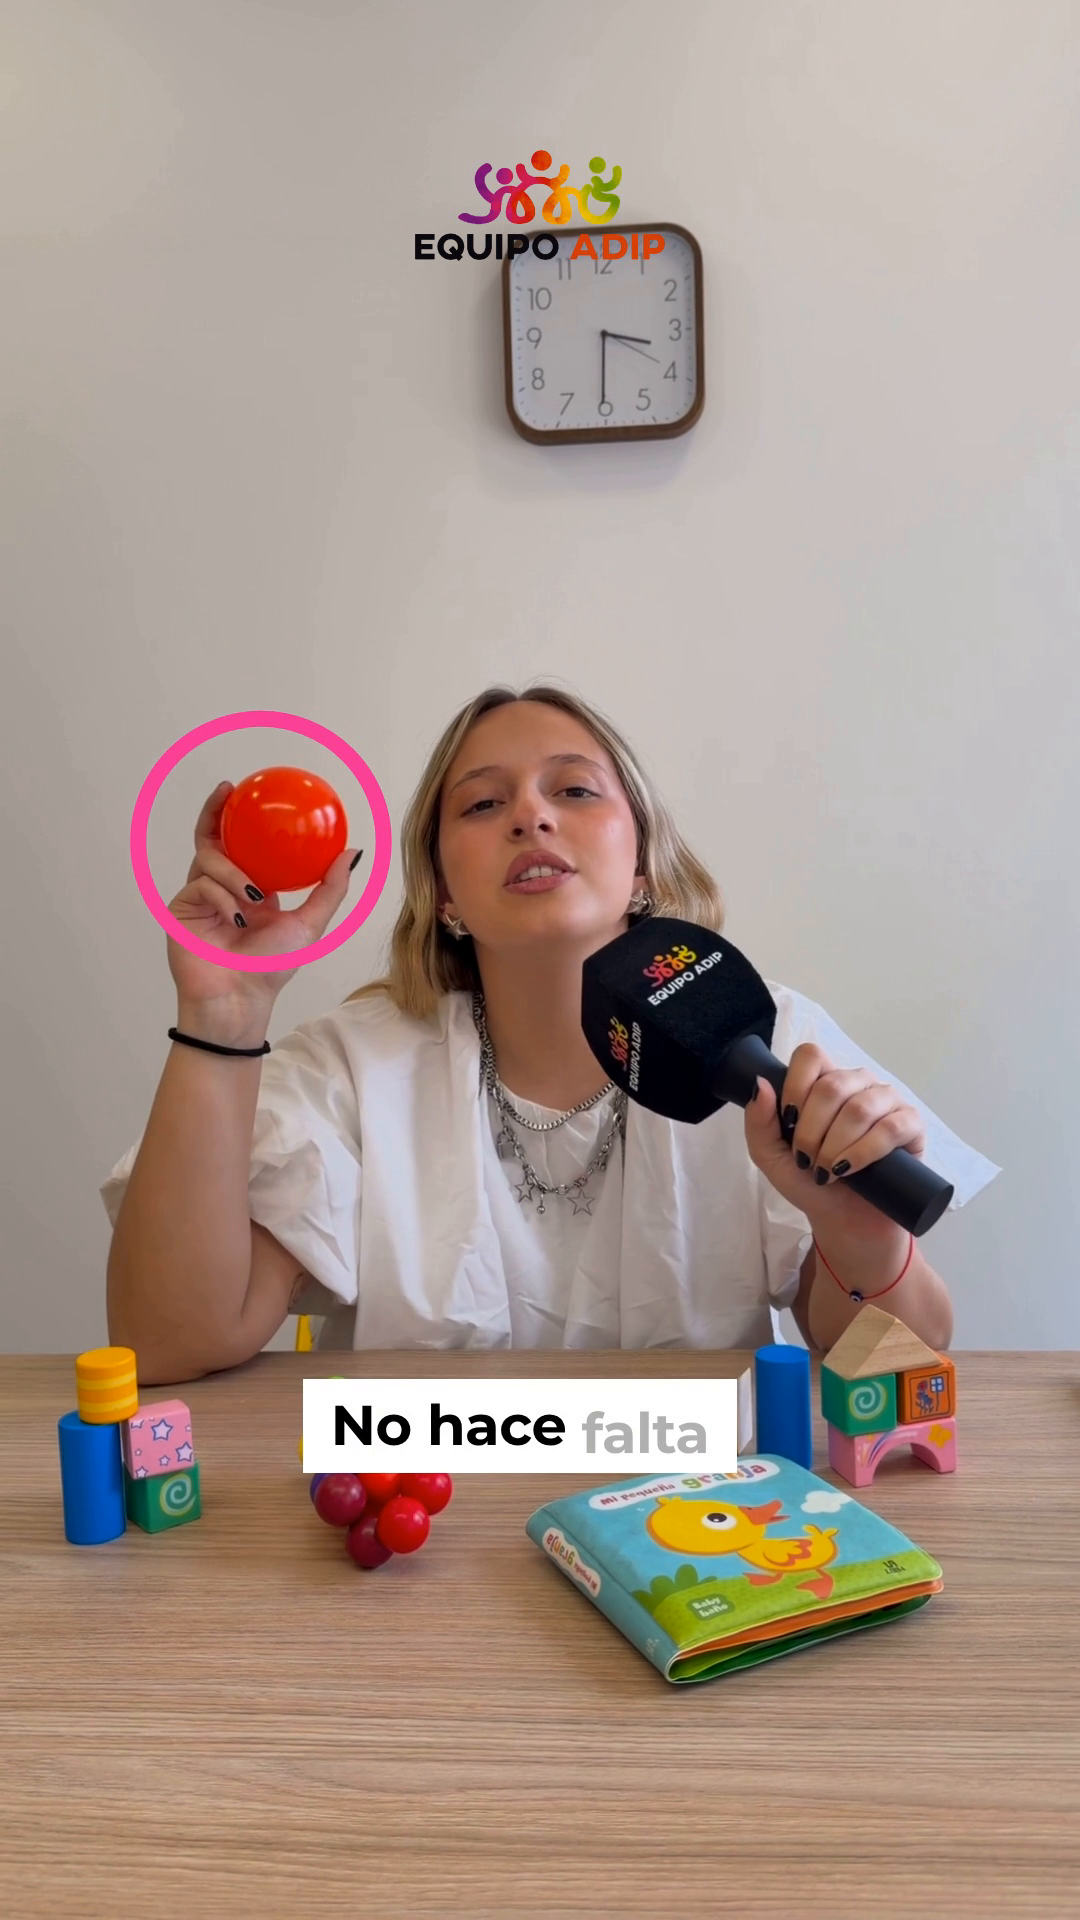
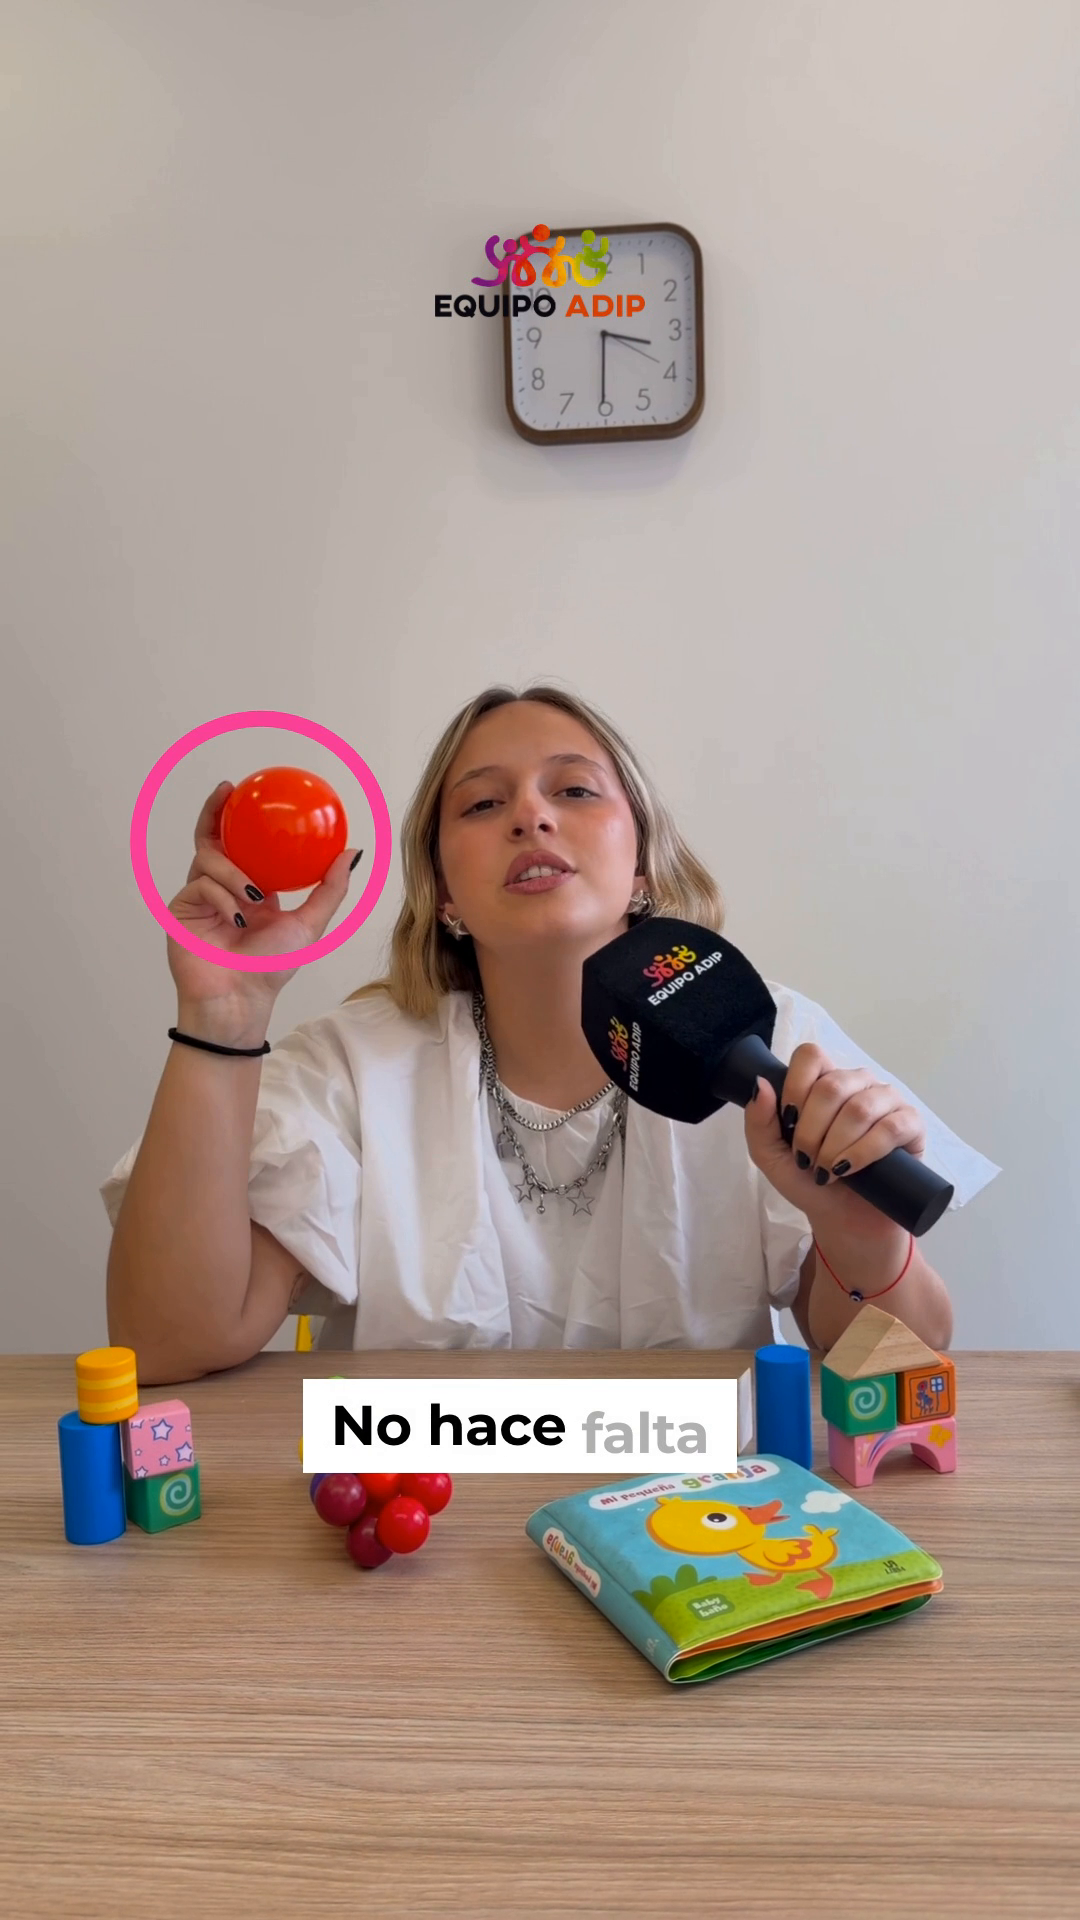
Reel Estimulación: todo dentro de la zona segura de Instagram + auditoría por cuadro
Logo, contador, gancho, HABLAR y EN FAMILIA reubicados o achicados;
tools/estim_safe.py mide cada cuadro de una pasada solo-gráficos.

Claude-Session: https://claude.ai/code/session_01M2LxgeZBKNGVK1wpzDWiMF

Changed region(s): [[0.3667, 0.0625, 0.6111, 0.1875]]

diff --git a/adip-reel/src/estim/Estim.tsx b/adip-reel/src/estim/Estim.tsx
@@ -1,5 +1,5 @@
 import React from 'react';
-import {AbsoluteFill, Easing, Img, OffthreadVideo, Sequence, staticFile, useCurrentFrame, useVideoConfig} from 'remotion';
+import {AbsoluteFill, Easing, Img, OffthreadVideo, Sequence, getInputProps, staticFile, useCurrentFrame, useVideoConfig} from 'remotion';
 import {clamp, easeIO, easeIn, easeOut, lerp, prog} from '../ui';
 import {
   ARC_IN,
@@ -33,6 +33,9 @@ import {
 
 // Estimulación temprana = tinte fucsia + acentos fucsia. No other colours exist in this piece.
 export const P = {pink: '#ED2995', tint: '#FBD4EA', ink: '#000000', white: '#FFFFFF', gray: '#EFEFEF'};
+/** safe-zone audit pass (--props='{"safe":true}'): only type and key graphics on flat green, no footage or decoration */
+const SAFE = Boolean((getInputProps() as {safe?: boolean}).safe);
+const GREEN = '#00FF00';
 export const FONT = "'Montserrat', sans-serif";
 export const TRAZO = 'M10 96 C 70 98, 120 92, 156 74 C 196 54, 204 16, 178 12 C 150 8, 146 54, 182 76 C 220 98, 300 98, 390 92';
 
@@ -230,17 +233,17 @@ const CounterPlate: React.FC<{t: number}> = ({t}) => {
   const cp = prog(t, t0 + 0.08, 0.95, Easing.out(Easing.exp));
   const done = t >= t0 + 0.08 + 0.95;
   const val = done ? 1000000 : Math.min(999999, 1000000 * cp);
-  const bump = 1 + 0.07 * Math.sin(prog(t, t0 + 1.03, 0.35, easeOut) * Math.PI);
+  const bump = 1 + 0.04 * Math.sin(prog(t, t0 + 1.03, 0.35, easeOut) * Math.PI);
   const head = prog(t, t0 + 0.02, 0.55, back);
   const sub = prog(t, t0 + 0.45, 0.4, easeOut);
   return (
     <>
-      <CircleCover t={t} t0={t0 - 0.27} x={540} y={900} />
+      {!SAFE && <CircleCover t={t} t0={t0 - 0.27} x={540} y={900} />}
       {t >= t0 - 0.02 && (
         <>
           {/* la cabeza: big fuchsia circle coming in from the top-right edge */}
-          <div style={{position: 'absolute', left: 770, top: 40, width: 640, height: 640, borderRadius: '50%', background: P.pink, transform: `scale(${head})`, transformOrigin: '80% 20%'}} />
-          <Net t={t} t0={t0 + 0.1} nodes={PLATE_NODES} edges={PLATE_EDGES} node={P.white} step={0.085} />
+          <div style={{position: 'absolute', left: 770, top: 40, width: 640, height: 640, borderRadius: '50%', background: P.pink, display: SAFE ? 'none' : undefined, transform: `scale(${head})`, transformOrigin: '80% 20%'}} />
+          <Net t={SAFE ? -1 : t} t0={t0 + 0.1} nodes={PLATE_NODES} edges={PLATE_EDGES} node={P.white} step={0.085} />
           <div
             style={{
               position: 'absolute',
@@ -250,7 +253,7 @@ const CounterPlate: React.FC<{t: number}> = ({t}) => {
               textAlign: 'center',
               fontFamily: FONT,
               fontWeight: 900,
-              fontSize: 170,
+              fontSize: 146,
               lineHeight: 1,
               letterSpacing: '-0.035em',
               fontVariantNumeric: 'tabular-nums',
@@ -261,7 +264,7 @@ const CounterPlate: React.FC<{t: number}> = ({t}) => {
             {done ? '+' : ''}
             {fmt(val)}
           </div>
-          <div style={{position: 'absolute', left: 0, width: 1080, top: 1040, textAlign: 'center', fontFamily: FONT, fontWeight: 700, fontSize: 56, color: P.ink, opacity: sub, transform: `translateY(${(1 - sub) * 20}px)`}}>
+          <div style={{position: 'absolute', left: 0, width: 1080, top: 1030, textAlign: 'center', fontFamily: FONT, fontWeight: 700, fontSize: 48, color: P.ink, opacity: sub, transform: `translateY(${(1 - sub) * 20}px)`}}>
             conexiones nuevas <span style={{color: P.pink, fontWeight: 800}}>por segundo</span>
           </div>
         </>
@@ -278,7 +281,7 @@ const Second: React.FC<{t: number}> = ({t}) => {
   return (
     <>
       {show && (
-        <div style={{position: 'absolute', left: 80, top: 360}}>
+        <div style={{position: 'absolute', left: 80, top: 400}}>
           <div style={{transform: `scale(${pop(t, T_CADA - 0.03)})`, transformOrigin: '0 100%', opacity: fade(t, T_CADA - 0.03)}}>
             <Strip size={150}>CADA</Strip>
           </div>
@@ -320,7 +323,7 @@ const BigWords: React.FC<{t: number}> = ({t}) => {
       </div>
       <div style={{position: 'absolute', left: 0, width: 1080, top: 636, textAlign: 'center'}}>
         <div style={{display: 'inline-block', transform: `scale(${pop(t, t0)}) rotate(${i % 2 ? 2 : -2}deg)`, opacity: fade(t, t0, 0.07)}}>
-          <Strip size={w.text.length > 7 ? 126 : 200} inv={i % 2 === 1}>
+          <Strip size={w.text.length > 7 ? 126 : w.text.length > 5 ? 168 : 200} inv={i % 2 === 1}>
             {w.text}
           </Strip>
         </div>
@@ -347,7 +350,7 @@ const Clave: React.FC<{t: number}> = ({t}) => {
 const Pill: React.FC<{t: number}> = ({t}) => {
   if (t < T_PILL || t >= PILL_OUT) return null;
   return (
-    <div style={{position: 'absolute', left: 0, width: 1080, top: 380, textAlign: 'center'}}>
+    <div style={{position: 'absolute', left: 0, width: 1080, top: 400, textAlign: 'center'}}>
       <span
         style={{
           display: 'inline-block',
@@ -375,7 +378,7 @@ const Pill: React.FC<{t: number}> = ({t}) => {
 const Cta: React.FC<{t: number}> = ({t}) => {
   if (t < T_BTN) return null;
   return (
-    <div style={{position: 'absolute', left: 0, width: 1080, top: 392, textAlign: 'center'}}>
+    <div style={{position: 'absolute', left: 0, width: 1080, top: 400, textAlign: 'center'}}>
       <Button size={52} style={{transform: `scale(${pop(t, T_BTN, 0.34)})`, opacity: fade(t, T_BTN, 0.08)}} />
     </div>
   );
@@ -392,10 +395,10 @@ const Outro: React.FC<{t: number}> = ({t}) => {
   const head = prog(t, a - 0.05, 0.6, back);
   return (
     <>
-      <CircleCover t={t} t0={t0} x={540} y={450} dur={0.32} />
+      {!SAFE && <CircleCover t={t} t0={t0} x={540} y={450} dur={0.32} />}
       {t >= a - 0.05 && (
         <>
-          <div style={{position: 'absolute', left: -280, top: 1470, width: 700, height: 700, borderRadius: '50%', background: P.pink, transform: `scale(${head})`, transformOrigin: '20% 80%'}} />
+          <div style={{position: 'absolute', left: -280, top: 1470, width: 700, height: 700, borderRadius: '50%', background: P.pink, display: SAFE ? 'none' : undefined, transform: `scale(${head})`, transformOrigin: '20% 80%'}} />
           <Img src={staticFile('brand/logo-color.png')} style={{position: 'absolute', left: 540 - 150, top: 440, width: 300, opacity: logo, transform: `translateY(${(1 - logo) * 24}px)`}} />
           <div style={{position: 'absolute', left: 0, width: 1080, top: 700, textAlign: 'center'}}>
             <Button size={72} style={{transform: `scale(${pop(t, a + 0.2, 0.36)})`, opacity: fade(t, a + 0.2, 0.08)}} />
@@ -417,17 +420,18 @@ const Outro: React.FC<{t: number}> = ({t}) => {
 
 /** Brand mark: the full colour logo, straight on the footage (no backing), fixed at the top centre. */
 const LogoTab: React.FC<{t: number}> = ({t}) => {
-  const p = prog(t, 0.63, 0.45, easeOut);
+  // enters with the counter plate: in the opening floor shots Andy's head is where the logo goes (and her mic already carries it)
+  const p = prog(t, PLATE_IN, 0.3, easeOut);
   const q = prog(t, OUTRO_AT + 0.05, 0.2, easeIn);
   if (p <= 0 || q >= 1) return null;
-  return <Img src={staticFile('brand/logo-color.png')} style={{position: 'absolute', left: 540 - 125, top: 150, width: 250, opacity: p * (1 - q), transform: `translateY(${(1 - p) * -30}px)`}} />;
+  return <Img src={staticFile('brand/logo-color.png')} style={{position: 'absolute', left: 540 - 105, top: 224, width: 210, opacity: p * (1 - q)}} />;
 };
 
 /** Hook for people watching muted */
 const Hook: React.FC<{t: number}> = ({t}) => {
   if (t < T_HOOK || t >= HOOK_OUT) return null;
   return (
-    <div style={{position: 'absolute', left: 80, top: 1130}}>
+    <div style={{position: 'absolute', left: 100, top: 1130}}>
       <div style={{transform: `scale(${pop(t, T_HOOK)}) rotate(-3deg)`, transformOrigin: '0 100%', opacity: fade(t, T_HOOK, 0.06)}}>
         <Strip size={168}>¿VISTE</Strip>
       </div>
@@ -479,7 +483,7 @@ const Familia: React.FC<{t: number}> = ({t}) => {
     <>
       <div style={{position: 'absolute', left: 0, width: 1080, top: 1210, textAlign: 'center'}}>
         <div style={{display: 'inline-block', transform: `scale(${pop(t, T_FAM)})`, opacity: fade(t, T_FAM, 0.07)}}>
-          <Strip size={132}>
+          <Strip size={116}>
             EN <span style={{color: P.pink}}>FAMILIA</span>
           </Strip>
         </div>
@@ -506,7 +510,7 @@ export const Estim: React.FC = () => {
   const arcPop = lerp(0.9, 1, prog(t, ARC_IN, 0.4, back));
   const matte = frame >= MATTE[0] && frame <= MATTE[1];
   return (
-    <AbsoluteFill style={{background: P.tint, fontFamily: FONT}}>
+    <AbsoluteFill style={{background: SAFE ? GREEN : P.tint, fontFamily: FONT}}>
       <style>{fontCss()}</style>
       {arc && (
         <>
@@ -521,7 +525,7 @@ export const Estim: React.FC = () => {
             : {position: 'absolute', inset: 0, overflow: 'hidden'}
         }
       >
-        <div style={camStyle}>
+        <div style={{...camStyle, display: SAFE ? 'none' : undefined}}>
           <Sequence durationInFrames={SRC_FRAMES} layout="none">
             <OffthreadVideo src={staticFile('estim/base.mp4')} muted style={{position: 'absolute', left: 0, top: 0, width: 1080, height: 1920, filter: 'contrast(1.03) saturate(1.05)'}} />
           </Sequence>
@@ -534,15 +538,15 @@ export const Estim: React.FC = () => {
         </div>
       </div>
       <BigWords t={t} />
-      {matte && (
+      {matte && !SAFE && (
         <div style={{...camStyle}}>
           <Img src={staticFile(`estim/subj/s${pad4(frame)}.webp`)} style={{position: 'absolute', left: 0, top: 0, width: 1080, height: 1920, filter: 'contrast(1.03) saturate(1.05)'}} />
         </div>
       )}
-      <SnapRing t={t} />
+      {!SAFE && <SnapRing t={t} />}
       <Hook t={t} />
       <Second t={t} />
-      <Net t={t} t0={T_NET} t1={NET_OUT} nodes={WALL_NODES} edges={WALL_EDGES} node={P.pink} step={0.12} />
+      <Net t={SAFE ? -1 : t} t0={T_NET} t1={NET_OUT} nodes={WALL_NODES} edges={WALL_EDGES} node={P.pink} step={0.12} />
       <Clave t={t} />
       <Pill t={t} />
       <Familia t={t} />

diff --git a/adip-reel/tools/estim_safe.py b/adip-reel/tools/estim_safe.py
@@ -1,0 +1,39 @@
+"""Safe-zone audit on the green pass: per frame, bbox of everything that is not the green background.
+Zone: y 260-1580, x 80-1000; plus x <= 960 below y 1000 (Instagram's button column)."""
+import subprocess, sys, numpy as np
+pr = subprocess.Popen(["ffmpeg", "-v", "error", "-i", sys.argv[1], "-f", "rawvideo", "-pix_fmt", "rgb24", "-"], stdout=subprocess.PIPE)
+def frames():
+    while True:
+        b = pr.stdout.read(960 * 540 * 3)
+        if len(b) < 960 * 540 * 3: return
+        yield np.frombuffer(b, np.uint8).reshape(960, 540, 3)
+runs = {}; total = 0
+TOP = int(sys.argv[2]) if len(sys.argv) > 2 else 260
+for n, im in enumerate(frames()):
+    total += 1
+    fg = ~((im[..., 1] > 200) & (im[..., 0] < 90) & (im[..., 2] < 90))
+    fg[:2] = fg[-2:] = False
+    if not fg.any(): continue
+    ys = np.where(fg.any(1))[0]; xs = np.where(fg.any(0))[0]
+    L, R, T, B = xs[0] * 2, (xs[-1] + 1) * 2, ys[0] * 2, (ys[-1] + 1) * 2
+    low = fg[500:]; Rlow = (np.where(low.any(0))[0][-1] + 1) * 2 if low.any() else 0
+    bad = []
+    if L < 78: bad.append(f"izq x={L}")
+    if R > 1002: bad.append(f"der x={R}")
+    if T < TOP - 2: bad.append(f"arriba y={T}")
+    if B > 1582: bad.append(f"abajo y={B}")
+    if Rlow > 962: bad.append(f"zona botones x={Rlow}")
+    for b in bad:
+        k = b.split(" ")[0] + (" botones" if "botones" in b else "")
+        runs.setdefault(k, []).append((n, b))
+if not runs: print("OK: nada fuera de la zona segura en", total, "cuadros")
+for k, v in runs.items():
+    # group consecutive frames
+    seg = []; a = v[0][0]; p = a; worst = v[0][1]
+    for n, b in v[1:] + [(10**9, "")]:
+        if n != p + 1:
+            seg.append((a, p, worst)); a = n; worst = b
+        elif b and int(b.split('=')[1]) != int(worst.split('=')[1]):
+            worst = max([worst, b], key=lambda z: abs(int(z.split('=')[1]) - 540 if 'x=' in z else int(z.split('=')[1]) - 920))
+        p = n
+    for a, p, w in seg: print(f"{k:16s} {a/30:5.2f}-{p/30:5.2f} s  ({w})")
